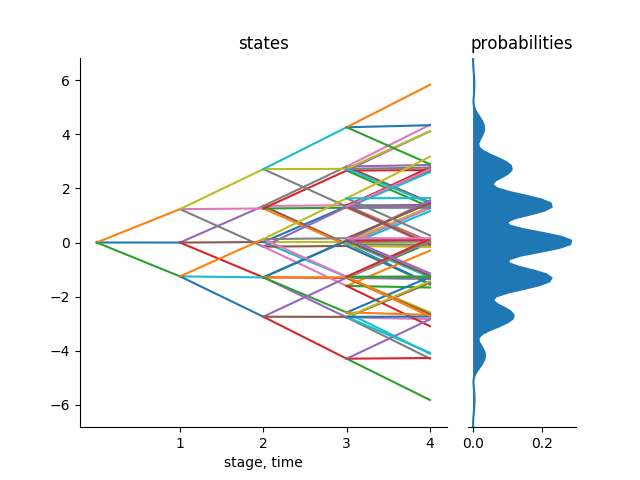
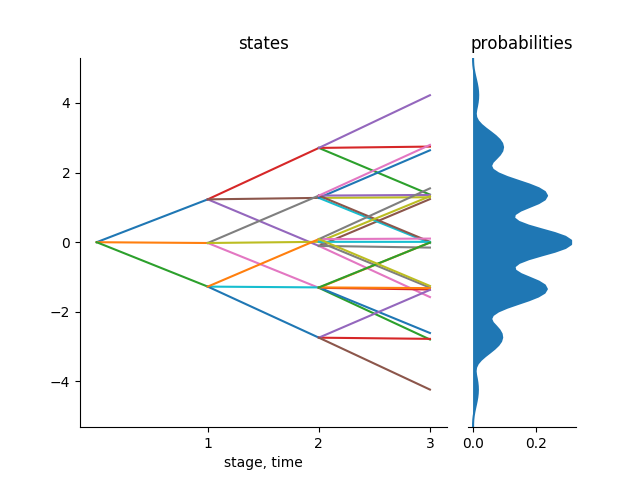
Snapshot of branch master taken on 2019-09-25T11:51:05.626-04:00 from "https://github.com/UnofficialJuliaMirror/ScenTrees.jl-4ec4db44-c288-11e9-3202-272e944f779a"

diff --git a/docs/src/tutorial/tutorial4.md b/docs/src/tutorial/tutorial4.md
@@ -25,12 +25,12 @@ The stochastic approximation process is outlined as follows:
 
 7. The algorithm stops when all the number of iterations have been performed.
 
-!!! tip
-    The most important function in this approximation process is the function that user wants to approximate. This is the function that generates samples that improves the tree in each iteration. _The function must take the number of stages and the dimension as inputs._
+!!! warning
+    The most important function in this approximation process is the function that user wants to approximate. This is the function that generates samples that improves the tree in each iteration. _The function must be designed in a way that it doesn't take any inputs. It must be a hardcoded function in that and the length of an array that it produces must match the number of stages of the tree and the dimension of the states of the tree._
 
 ## Tree Approximation
 
-In this package, we have the function `TreeApproximation!` which does the stochastic approximation process for scenario trees. This function takes the following inputs:
+In this package, we have the function `TreeApproximation!(Tree(BranchingStructure,dimension),Function,NumberOfIterations,2,2)` which does the stochastic approximation process for scenario trees. This function takes the following inputs:
 
   - Tree (which takes the branching structure and dimension and inputs)
 
@@ -38,48 +38,57 @@ In this package, we have the function `TreeApproximation!` which does the stocha
 
   - Number of iterations
 
-  - Value `d` for distance (2 is the default for we use the Euclidean distance, 1 would be for the normal distance)
+  - Choice `d` of the norm (Example: `max=0,sum=1,Euclidean=2`(default))
 
-  - Value `r` for the Wasserstein distance (2 is the default for Wasserstein distance)
+  - Choice `r` for the Wasserstein distance (`r=2`(default))
 
-Given the following inputs, the function does the stochastic approximation process and returns a valuated scenario tree.
+Given the above inputs, the function does the stochastic approximation process and returns a valuated scenario tree.
 
 !!! info
     The user must provide the above inputs to the function. The user also dictates where the tree starts from in the script that generates samples from a stochastic process that the user wants to approximate.
 
 ### Example
 
-Consider the following. We want to approximate the Gaussian random walk in 5 stages with a tree with a branching structure of `1x3x3x3x3` using the usual Euclidean distance and `r=2` for the Wasserstein distance.
+Consider the following. We want to approximate the Gaussian random walk in 4 stages with a tree with a branching structure of `1x3x3x3` in 1 dimension using the usual Euclidean distance ,`pNorm=2` and `rWasserstein=2` for the Wasserstein distance.
 
 ```julia
 julia> using ScenTrees
-julia> ex2 = Tree([1,3,3,3,3],1)
-julia> sol1 = TreeApproximation!(ex2, GaussianSamplePath, 1000000, 2, 2)
+julia> ex2 = Tree([1,3,3,3],1)
+julia> sol1 = TreeApproximation!(ex2, GaussianSamplePath1D,1000000,2,2)
 julia> treeplot(sol1)
 julia> savefig("treeapprox1.png")
 ```
 
-The function `GaussianSamplePath` takes the number of stages and the dimension as depicted by the tree that you want to generate. For example, in the above, `GaussianSamplePath` function will take 5 as the number of stages and 1 as the dimension and then generate  5 samples of a Gaussian distribution.
+The function `GaussianSamplePath1D()` takes no inputs and generates one trajectory of the Gaussian random walk in 4 stages. For each iteration of the process, this process function generates a trajectory that will help improve the states of the nodes in the scenario tree.
+```julia
+julia> GaussianSamplePath1D()   # 4 stages, 1 dimension
+4x1 Array{Float64,2}:
+0.0
+1.49765
+-0.17537
+-1.2982
+```
 
 The output for the above approximation, shown below, is a scenario tree that is stable and represents the stochastic process in the best possible way.
 
 ![Example of a valuated tree in 1D](../assets/treeapprox1.png)
 
-We can also appoximate a stochastic process in two dimension. Consider the Gaussian random walk in 2D. Our function `GaussianSamplePath` can generate samples from the Gaussian random walk in 2 dimension, for example as follows:
+We can also appoximate a stochastic process in two dimension. Consider the Gaussian random walk in 2D. Our function `GaussianSamplePath2D` can generate samples from the Gaussian random walk in 2 dimension, for example as follows:
 
 ```julia
-julia> GaussianSamplePath(4,2) # 4 stages, 2 dimension
-3x2 Array{Float64,2}
-1.0         0.0
--0.4368     -0.4629
-2.3605      -0.2821
+julia> GaussianSamplePath2D() # 4 stages, 2 dimension
+4x2 Array{Float64,2}
+1.0000        0.0000
+0.76636      -0.44216
+3.65296      -0.14275
+5.1779       -0.42350
 ```
 
 We can therefore do approximations in 2 dimension as follows:
 
 ```julia
-julia> ex3 = Tree([1,3,3],2);
-julia> sol2 = TreeApproximation!(ex3,GaussianSamplePath,1000000,2,2);
+julia> ex3 = Tree([1,3,3,3],2);
+julia> sol2 = TreeApproximation!(ex3,GaussianSamplePath2D,1000000,2,2);
 julia> plotD(sol2)
 julia> savefig("treeapprox2D.png")
 ```
@@ -90,12 +99,11 @@ julia> savefig("treeapprox2D.png")
 
 As mentioned before, some of the process that you may want to approximate are Markovian data processes. These processes can only be approximated by a scenario lattice. All the nodes in the same stage in a lattice have the same children nodes.
 
-To approximate a Markovian data process, we use the function `LatticeApproximation`. This function takes the following inputs:
+To approximate a Markovian data process, we use the function `LatticeApproximation(BranchingStructure,Function,NoOfIterations)`. The following are the description of the inputs of the funtion:
 
-  - Branching structure,
-  - Name of the function that generates samples and,
-  - Number of iterations to be performed, and
-  - The dimension of states of the lattice
+  - Branching structure of the scenario lattice,
+  - Function that generates samples and,
+  - Number of iterations to be performed, 
 
 Lattice Approximation follows the same stochastic approximation process as for the scenario tree. The only difference is that, in each stage of a lattice, we find the closest lattice entry and use the sample generated to improve it. At the beginning, the lattice is not stable but with more and more iterations, the scenario lattice converges in probability and the resulting lattice can then be used for decision making process.
 
@@ -103,12 +111,12 @@ All the probabilities in each stage of the lattice must sum up to 1.
 
 ### Example
 
-Consider the following example. We want to approximate a Gaussian random walk of 12 stages in one dimension with a scenario lattice with the branching structure of `1x3x4x5x6x7x8x9x10x11x12x13` and 1,000,000 iterations.
+Consider the following example. We want to approximate a Gaussian random walk of 4 stages in one dimension with a scenario lattice with the branching structure of `1x3x4x5` and 1,000,000 iterations.
 
 ```julia
-julia> sol4 = LatticeApproximation([1,3,4,5,6,7,8,9,10,11,12,13],GaussianSamplePath,1000000);
+julia> sol4 = LatticeApproximation([1,3,4,5],GaussianSamplePath1D,1000000);
 ```
-The result of the above approximation is a lattice which we can visualize it.
+The result of the above approximation is a scenario lattice which represents the stochastic process in the best way. This scenario lattice can be used for decision making process under uncertainty 
 
 !!! info
     To visualize a scenario lattice, we use the `PlotLattice` function.

diff --git a/docs/src/tutorial/tutorial1.md b/docs/src/tutorial/tutorial1.md
@@ -16,9 +16,11 @@ For example, consider a Gaussian random walk in 5 stages. The starting value of 
 
 ![100 sample paths from Gaussian random walk](../assets/100GaussianPaths.png)
 
-Using those paths, we generate and improve a scenario tree or a scenario lattice. The number of iterations for the algorithm equals the number of sample paths that we want to generate from the stochastic process and the number of stages in the stochastic process equals the number of stages in the scenario tree or the scenario lattice. There are a lot of different branching structures that the user can choose for a tree that represents this stochastic process. The branching structure shows how many branches each node in the tree has at each stage of the tree. For example, we can use a branching structure of ``1x2x2x2x2`` for the scenario tree. This means that each node in the tree has two children. Basically, this is a `binary tree`. Using this branching structure, we obtain the following valuated probability tree that represents the above stochastic process:
+Using those paths, we generate and improve a scenario tree or a scenario lattice. The number of iterations for the algorithm equals the number of sample paths that we want to generate from the stochastic process and the number of stages in the stochastic process equals the number of stages in the scenario tree or the scenario lattice. There are a lot of different branching structures that the user can choose for a tree that represents this stochastic process. The branching structure shows how many branches each node in the tree has at each stage of the tree. For example, we can use a branching structure of `1x2x2x2x2` for the scenario tree. This means that each node in the tree has two children. Basically, this is a `binary tree`. Using this branching structure, we obtain the following valuated probability tree that represents the above stochastic process:
 
 ![Scenario Tree 1x2x2x2x2](../assets/TreeExample.png)
+
+*Figure 1: Scenario Tree 1x2x2x2x2*
 
 The above tree is optimal and therefore can be used by a decision maker for a decision making process depending on the type of problem he/she is handling.
 
@@ -42,6 +44,9 @@ A scenario tree is described by the following:
 
 A scenario tree is a mutable struct of type `Tree()`. To create a non-optimal scenario tree, we need to fix the branching structure and the dimension of the states of nodes you are wroking on. This typs `Tree()` has different methods:
 ```julia
+julia> using Pkg
+julia> Pkg.add("https://github.com/kirui93/ScenTrees.jl.git")
+julia> using ScenTrees
 julia> methods(Tree)
 # 4 methods for generic function "(::Type)":
 [1] Tree(name::String, parent::Array{Int64,1}, children::Array{Array{Int64,1},1}, state::Array{Float64,2}, probability::Array{Float64,2}) 
@@ -49,7 +54,7 @@ julia> methods(Tree)
 [3] Tree(spec::Array{Int64,1}) 
 [4] Tree(spec::Array{Int64,1}, dimension) 
 ```
-All the methods correspond to the way you can create a scenario tree. For the first method, the length of states must be equal to the length of the probabilities. In the 2nd method, you can call any of our predefined trees by just calling on the identifier (these identifiers are `0,301,302,303,304,305,306,307,401,402,4022,404,405`). And finaly the most important methods are the 3rd and 4th method. If you know the branching structure of your scenario tree, then you can create an non-optimal starting tree using it. If you don't state the dimension you ae working on, then it is defaulted into `1`. For example, `Tree([1,2,2])` creates a binary tree with states of dimension one.
+All the methods correspond to the way you can create a scenario tree. For the first method, the length of states must be equal to the length of the probabilities. In the 2nd method, you can call any of our predefined trees by just calling on the identifier (these identifiers are `0,301,302,303,304,305,306,307,401,402,4022,404,405`). And finaly the most important methods are the 3rd and 4th method. If you know the branching structure of your scenario tree, then you can create an non-optimal starting tree using it. If you don't state the dimension you ae working on, then it is defaulted into `1`. For example, `Tree([1,2,2,2,2])` creates a binary tree with states of dimension one as in Figure 1 above
 
 ## Description of a scenario lattice
 
@@ -71,7 +76,7 @@ This method is not very important becasue we only need it to produce the results
 
 ## Usage
 Since we have the basics of the scenario tree and the scenario lattice and since we created `ScenTrees.jl` with an intention of being user-friendly, we will give an example of its usage and explain each part of it. 
-In the module of `ScenTrees.jl`, we have all the exported functions that are visible to the user i.e, that are public, and the user can call these functions depending on what he/she wants to achieve with this library
+In the module of `ScenTrees.jl`, we have all the exported functions that are visible to the user i.e., that are public, and the user can call these functions depending on what he/she wants to achieve with this library
 
 ```julia
 module ScenTrees
@@ -79,12 +84,13 @@ module ScenTrees
   include("TreeApprox.jl")
   include("StochPaths.jl")
   include("LatticeApprox.jl")
-  export TreeApproximation!, LatticeApproximation, Tree, nodes, stage, height, leaves,
-        root,partTree, buildProb!, treeplot, plotD, PlotLattice,
-        GaussianSamplePath,RunningMaximum
+  include("bushinessNesDistance.jl")
+  export TreeApproximation!, LatticeApproximation,Tree,Lattice,nodes,stage,height,leaves,
+        root,partTree,buildProb!,treeplot,plotD,PlotLattice,bushinessNesDistance,
+        GaussianSamplePath1D,GaussianSamplePath2D,RunningMaximum1D,RunningMaximum2D,path
 end
 ```
-The most important functions in this module are `TreeApproximation!()` and `LatticeApproximation()` since these are the tow functions which are used to approximate scenario trees and scenario lattices respectively. The other important function is the `Tree()` function which gives the basic structure of the scenario tree.
+The most important functions in this module are `TreeApproximation!()` and `LatticeApproximation()` since these are the two functions which are used to approximate scenario trees and scenario lattices respectively. The other important function is the `Tree(BranchingStructure,dimension)` function which gives the basic starting structure of a scenario tree.
 
 All of the above functions have been documented in their respective scripts and the user can find out what each function does by putting a `?` before the function. For example, `?leaves` will give an explanation of what the function `leaves` does. 
 

diff --git a/docs/src/tutorial/tutorial31.md b/docs/src/tutorial/tutorial31.md
@@ -1,0 +1,89 @@
+```@meta
+CurrentModule = ScenTrees
+```
+
+# Stochastic processes
+
+A stochastic process is a sequence of events in which the outcome of any stage depends on some probability. A stochastic process is also called a random process.The stochastic process is said to be continuous, if i.e. with probability one, all of its trajectories are continuous functions in `t`.
+
+There are many ways in which the stochastic processes can be classified. For example, they can be classified in terms of boundedness, continuity etc., i.e. properties of their sample trajectories. They could also be described with respect to the properties of their distribution functions. However, we find it important to classify the stpchastic processes according to their memory. We classify these processes as `discrete time stochastic processes` and `Markovian data processes`. The Markov processes are processes with short memory where the process has memory only at its immediate past. With this in mind, in our stochastic approximation process, we approximate a discrete time stochastic process with a `scenario tree` and a Markovian data process with a `scenario lattice`.  
+
+## Stochastic function
+
+This is a user-defined function representing the stochastic process in which she/he wants to approximate. This is the function that will generate trajectories that helps to improve the states of the nodes in the scenario tree or scenario lattice. To be able to do a good approximation, the user of this library should be aware of the number of stages in the scenario tree or scenario lattice that she/he is working on and more importantly, the dimension of the states of nodes in the tree or the scenario lattice. `Why is this important?` For each iteration, the stochastic approximation algorithm generates one trajectory from the stochastic function that will improve one path in the scenario tree. Therefore, knowing the number of stages and the dimension of the states will help the user to design a stochastic function that generates a trajectory with the same length as the number of stages in the scenario tree and with the same dimension as the dimension of the states in the scenario tree.
+
+We have the following examples in our library:
+
+    1. Gaussian random walk,
+    2. Running Maximum process
+    3. Sample stock paths
+  
+We have created the first two example functions in 1 and 2 dimensions. What we mean by dimension is that, a fucntion in 1 dimension generates just one array. Generally, a function in d-dimension generates `d` arrays. As stated before, the length of the array and the dimension of the array naturally depends on the characteristics of the scenario tree or scenario lattice that you are using.
+
+The position $X_t$ of a Gaussian random walk after $t$ steps is $$X_t = \sum_{k=1}^{t} Y_k$$ where the random variables $(Y_k)_{k\geq 1}$ are independent and identically distributed and each $Y_k$ follows a normal distribution. For the running maximum process, we take the maximum of each two consecutive numbers in a sample drawn from a normal distribution. Mathematically, $$M_t = \max \{\sum_{t=1}^{t^\prime} \xi_t : t^\prime \leq t\} \ \text{with} \ \xi_t \sim N(0,1)$$.
+
+We insist that the user of this library _must write a function that takes no inputs_. This function should be, in a way, a hardcoded function that when you call, it produces an array with a certain user pre-determined characteristics.
+
+The above two processes in our library are in 4 stages and therefore can be used with a scenario tree or a scenario lattice with 4 stages. As already stated, the stages in a scenario tree or a scenario lattice starts from `0` to `T`. Each of these processes generates samples with a common starting point since a stochastic process has a deterministic starting value and the rest of the values are random.
+
+It is important to create a function that generates samples that are dependent on each other in `d` dimension. Most stochastic processes have states which depends on each other and so it is always important to consider dependency of the samples generated by the stochadtic function.
+
+The following shows sample trajectories of our example functions above:
+
+```julia
+julia> GaussianSamplePath1D() # 4 stages, 1 dimension
+4x1 Array{Float64,2}:
+0.0
+-0.1566
+-1.5676
+-1.2084
+
+julia> GaussianSamplePath1D() # 2nd run - same starting value, different other values (randomness)
+4x1 Array{Float64,2}:
+0.0
+-2.1779
+-2.4299
+-1.3796
+
+julia> GaussianSamplePath2D() # 4 stages, 2 dimension
+4x2 Array{Float64,2}:
+1.0         0.0
+0.6968     -0.3676
+2.2257     -0.1558
+3.3988     -0.2629
+
+julia> RunningMaximum1D()
+4x1 Array{Float64,2}:
+0.0
+0.0
+0.5574
+0.9278
+
+julia> RunningMaximum2D()
+4x2 Array{Float64,2}:
+0.0         0.0
+2.7430      0.4331
+2.3931      0.4331
+-0.7218     0.3281
+
+julia> path()
+4x1 Array{Float64,2}:
+100.0
+78.7084
+109.4443
+74.3815
+```
+
+### Notes
+
+    1. The user of this library must provide this function. 
+    2. The function must take no inputs. This is so important for the stochastic approximation algorithm.
+    3. The length of an array produced by the function must be equal to the number of stages in the scenario tree or the scenario lattice.
+    4. The dimension of the array produced must be the same as the dimension of the states of the scenario tree or scenario lattice.
+    5. The array should have a common deterministic starting point or be in a certain range of values.
+    6. The array produced should be a `Nxd Array{Float64,2}` where `N` is the number of stages and `d` is the dimension. This is important for the stochastic approximation process.
+    7. In higher dimension, dpending on the user, the arrays could be dependent on each other.
+
+Upto this point, the user can now create a random scenario tree and look at its characteristics as well as write a process function that generates trajectories for the stochastic approximation process. It is important to write a function that follows the above criterion as this becomes very important in the stochastic approximation process.
+
+Having looked on the scenario trees, scenario lattices and stochastic processes, we are now ready to have a look on the stochastic approximation process. This is in our next tutorial.

diff --git a/docs/src/tutorial/tutorial5.md b/docs/src/tutorial/tutorial5.md
@@ -33,21 +33,21 @@ The above plot can be obtained by calling the function `bushinessNesDistance()` 
 
 Generally, the approximating quality of a scenario tree increases with increasing height of the tree and increasing bushiness of the tree.
 
-## Comparison with MATLAB's algorithm
+## Comparison with implementation in MATLAB
 
-Inorder to see how fast Julia is, we compared the performance of different trees with different heights with the same algorithm written in MATLAB programming language. We run the same trees and saved the time it takes to produce results. The following table shows the results (N/B: The time shown is in seconds. (1 minute = 60 seconds)):
+Inorder to see how fast Julia is, we compared the performance of different trees with different heights with the same algorithm written in MATLAB programming language. We run the same trees and saved the time it takes to produce results. The following table shows the results (N/B: The time shown is in seconds):
 
-| Tree           | Number of Iterations | Time (Julia) | Time (MATLAB) | How fast Julia is |
+| Tree           | Number of Iterations | Time (Julia) | Time (MATLAB) | Speed of Julia |
 |----------------|----------------------|--------------|---------------|-------------------|
-|1x2x2| 10,000| 0.1734 | 6.7532 | 39|
-|1x2x2x2| 10,000 | 0.163 | 9.74 | 60|
-|1x2x2x2| 100,000 | 1.77 | 111.727 | 63|
-|1x2x4x8| 100,000 | 2.3093 | 184.1082 | 80 |
-|1x2x3x4x5| 1,000,000| 23.145 | 1955.66 | 84|
-|1x3x3x3x2| 1,000,000| 20.121 | 1652.916 | 82|
-|1x3x3x3x3| 1,000,000| 21.443 | 1752.40  | 82|
-|1x10x5x2 | 1,000,000| 23.955 | 2046.877 | 85|
-|1x3x4x4x2x2| 1,000,000 | 27.357 | 2211.537 | 81|
+|1x2x2| 10,000| 0.17 | 6.75 | 38.9 times |
+|1x2x2x2| 10,000 | 0.16 | 9.74 | 59.8 times |
+|1x2x2x2| 100,000 | 1.77 | 111.73 | 63.1 times |
+|1x2x4x8| 100,000 | 2.31 | 184.11 | 79.7 times |
+|1x2x3x4x5| 1,000,000| 23.15 | 1955.66 | 84.5 times |
+|1x3x3x3x2| 1,000,000| 20.12 | 1652.92 | 82.2 times |
+|1x3x3x3x3| 1,000,000| 21.44 | 1752.40  | 81.7 times |
+|1x10x5x2 | 1,000,000| 23.96 | 2046.88 | 85.4 times |
+|1x3x4x4x2x2| 1,000,000 | 27.36 | 2211.54 | 80.8 times |
 
 
 What is clear is that `ScenTrees.jl` library outperforms MATLAB for all the scenario trees. Also, it is important to see that `ScenTrees.jl` performs pretty faster for scenario trees which are bushy and has different heights.
@@ -65,3 +65,8 @@ Our library totally relies on the above feature. That is why we were able to att
 The comparison done for this library in Julia 1.0.4 and MATLAB R2019a was done on Linux(x86_64-pc-Linux-gnu) with CPU(TM) i5-4670 CPU @ 3.40GHz.
 
 What is more important for testing and development is the processor speed for your machine. Machines with low processors will take longer time to execute the functions than machines with high processors. Hence, depending on the type of processor you have, you may or may not or even pass the computational speed that we achieved for this library.
+
+!!! tip
+    This library is actively developed and new features and improvements are constantly and continuously added. So, before using it, make it an habit to update your packages.
+    
+This ends our tutorials for using `ScenTrees.jl`. You are now ready to generate scenario trees and scenario lattices depending on what you want to approximate.

diff --git a/README.md b/README.md
@@ -4,8 +4,15 @@
 [![Coverage](https://codecov.io/gh/kirui93/ScenTrees.jl/branch/master/graph/badge.svg)](https://codecov.io/gh/kirui93/ScenTrees.jl)
 [![Documentation](https://img.shields.io/badge/dos-latest-blue.svg)](https://kirui93.github.io/ScenTrees.jl/latest/)
 
-`ScenTrees.jl` is a package for generating and improving scenario trees and scenario lattices for multistage stochastic optimization problems using _stochastic approximation_. The documentation can be found <a href="https://kirui93.github.io/ScenTrees.jl/latest/"> here </a>.
+`ScenTrees.jl` is a package for generating and improving scenario trees and scenario lattices for multistage stochastic optimization problems using _stochastic approximation_. The documentation can be found https://kirui93.github.io/ScenTrees.jl/latest/.
 
-The ScenTrees package follows the stochastic approximation framework provided by [Pflug and Pichler(2015)](https://doi.org/10.1007/s10589-015-9758-0). This package is actively developed and new features are continuously added.
+The `ScenTrees` library follows the stochastic approximation framework provided by [Pflug and Pichler(2015)](https://doi.org/10.1007/s10589-015-9758-0). This package is actively developed and new features are continuously added.
 
-If you need help or any questions regarding the library and any suggestions, file a Github issue on <a href="https://github.com/kirui93/ScenTrees.jl/issues/new"> this page </a>.
+The following shows an example of approximating a Gaussian random walk process using a scenario tree with 1x3x3x3x3 branching structure and 1-dimensional state space of the nodes in the scenario tree. The scenario tree on the right approximates the Gaussian random walk on the left. The multistage distance between the two stochastic processes is `0.1138`; the lower the multistage distance between the two stochastic processes, the better the scenario tree or the scenario lattice approximates the stochastic process.
+
+<p float="center">
+  <img src="docs/src/assets/100GaussianPaths.png" width="380" />
+  <img src="docs/src/assets/exampleTree1.png" width="380" /> 
+</p>
+
+If you need help or any questions regarding the library and any suggestions, file a Github issue on https://github.com/kirui93/ScenTrees.jl/issues/new.

diff --git a/docs/src/index.md b/docs/src/index.md
@@ -5,11 +5,11 @@ CurrentModule = ScenTrees
 # ScenTrees.jl
 
 !!! info
-	`ScenTrees.jl` is still under development.
+	`ScenTrees.jl` is an actively developed library and new features and improvements are continuously added.
 
-`ScenTrees.jl` is a package for generating and improving scenario trees and scenario lattices for multistage stochastic optimization problems using _stochastic approximation_. In this library, we use a fixed number of trajectories of a stochastic process to generate and improve a scenario tree or a scenario lattice. The quality of approximation between the stochastic process and the scenario tree/ the scenario lattice is measure using a multistage distance. The resulting scenario tree/lattice is optimal and represents the stochastic process in the best possible way and so can be used for decision making process.
+`ScenTrees.jl` is a package for generating and improving scenario trees and scenario lattices for multistage stochastic optimization problems using _stochastic approximation_. In this library, we use a fixed number of trajectories of a stochastic process to generate and improve a scenario tree or a scenario lattice. The quality of approximation between the stochastic process and the scenario tree/ scenario lattice is measured using a multistage distance. The multistage distance suits well to measure the distance between stochastic processes because it takes notice of the effect of evolution of the process over time (Have a look on [Georg Ch. Pflug and Alois Pichler(2012)](https://doi.org/10.1137/110825054) for more on distances for multistage stochastic optimization models). The resulting scenario tree/lattice from the stochastic approximation process is optimal and represents the stochastic process in the best possible way and so can be used for decision making process under uncertainty.
 
-In these tutorials, we assume that the reader is quite familiar with the theory and explanation in the paper [Georg Ch. Pflug and Alois Pichler(2015)](https://doi.org/10.1007/s10589-015-9758-0).
+In these tutorials, we assume that the reader is quite familiar with the theory and explanation in the paper [Georg Ch. Pflug and Alois Pichler(2015)](https://doi.org/10.1007/s10589-015-9758-0). 
 
 ## Installation
 
